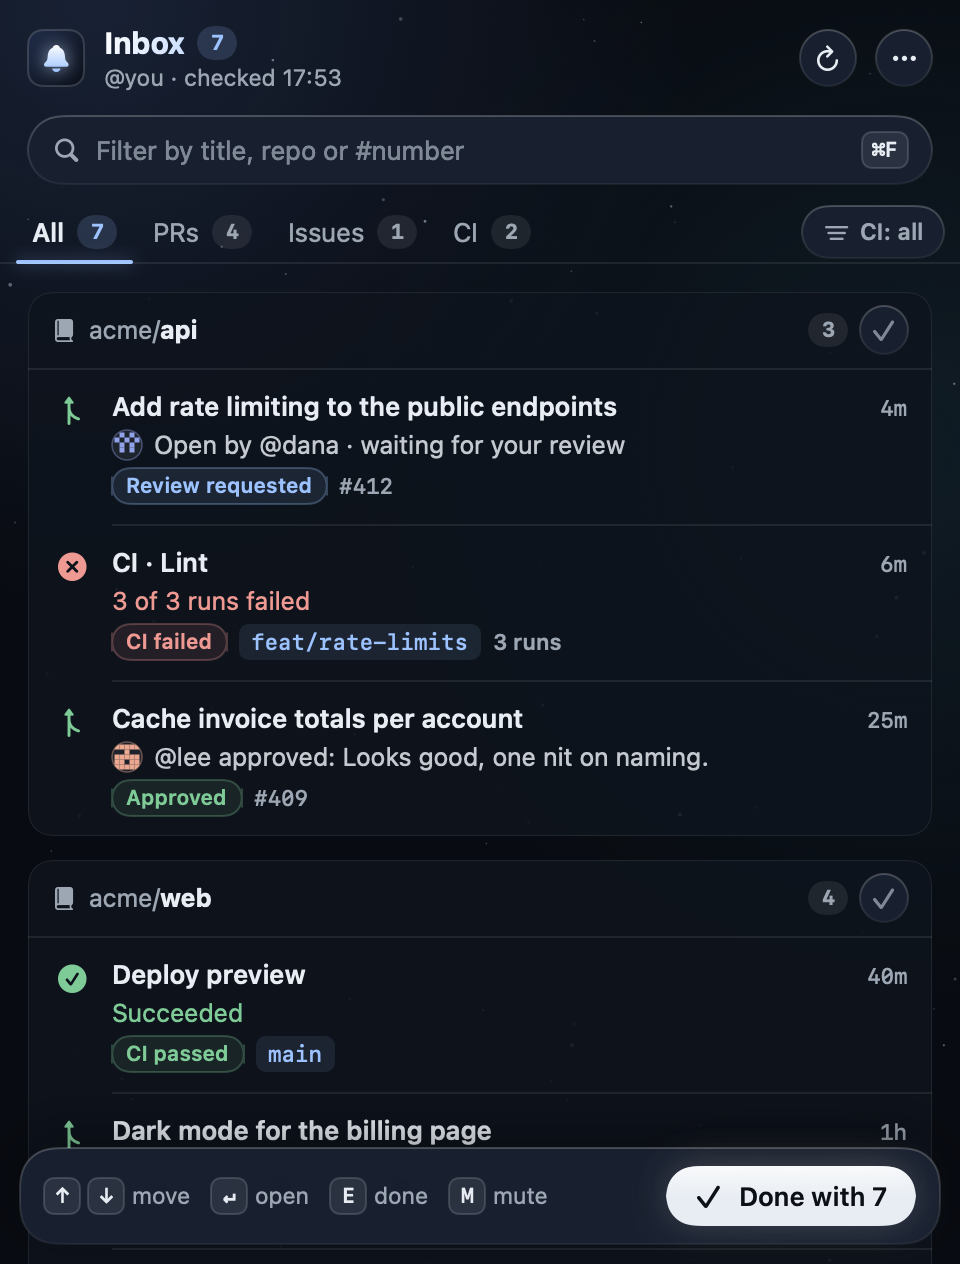
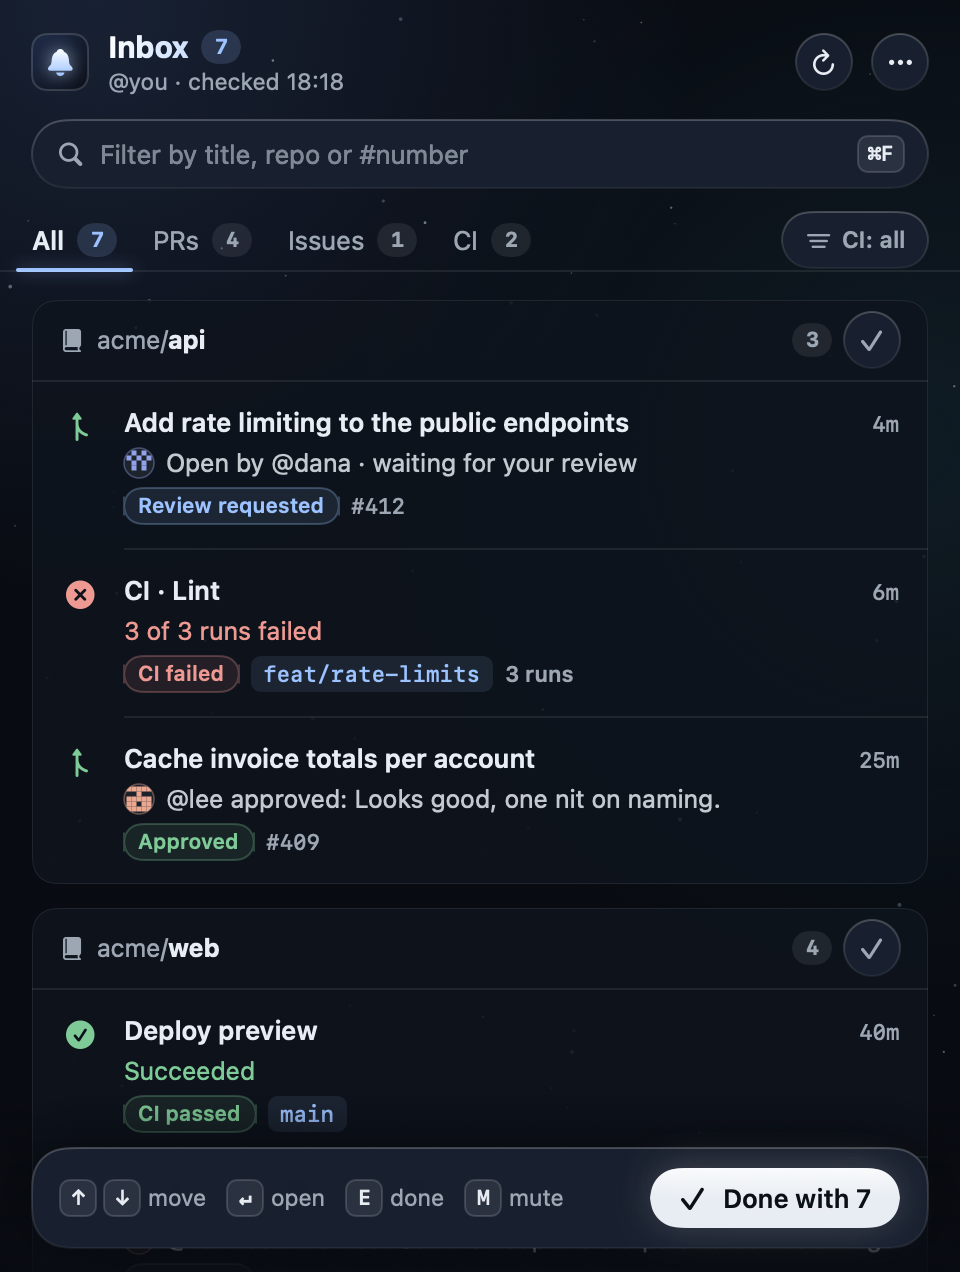
Layout pass: one 16 pt edge, roomier rows, 28 pt targets, finite pulses, Animated sky setting

diff --git a/Belfry/Sources/MenuContentView.swift b/Belfry/Sources/MenuContentView.swift
@@ -34,7 +34,13 @@ struct MenuContentView: View {
                     content
                 }
             }
-            if inList { footer.padding(10) }
+            if inList {
+                // Content fades into the sky as it slides under the floating footer.
+                LinearGradient(colors: [Theme.canvas.opacity(0), Theme.canvas.opacity(0.85)], startPoint: .top, endPoint: .bottom)
+                    .frame(height: 86)
+                    .allowsHitTesting(false)
+                footer.padding(.horizontal, Spacing.gutter).padding(.bottom, 12)
+            }
         }
         .frame(width: panelWidth)
         .background(SpaceBackground())
@@ -101,7 +107,8 @@ struct MenuContentView: View {
             moreMenu
         }
         .padding(.horizontal, Spacing.gutter)
-        .padding(.vertical, Spacing.bar)
+        .padding(.top, 14)
+        .padding(.bottom, 12)
     }
 
     private var statusLine: String {
@@ -152,12 +159,12 @@ struct MenuContentView: View {
         VStack(alignment: .leading, spacing: 0) {
             searchField
                 .padding(.horizontal, Spacing.gutter)
-                .padding(.bottom, 8)
+                .padding(.bottom, 10)
             underlineNav
             if store.selectedTab == .pullRequests {
                 prFilters
                     .padding(.horizontal, Spacing.gutter)
-                    .padding(.top, 10)
+                    .padding(.top, 12)
                     .transition(.opacity.combined(with: .offset(y: -6)))
             }
         }
@@ -233,7 +240,8 @@ struct MenuContentView: View {
             Spacer(minLength: 0)
             ciFilterMenu
         }
-        .padding(.horizontal, Spacing.gutter - 6)
+        .padding(.leading, Spacing.gutter - 8)
+        .padding(.trailing, Spacing.gutter)
         .overlay(alignment: .bottom) { Rectangle().fill(Theme.hairline).frame(height: 1) }
     }
 
@@ -261,8 +269,8 @@ struct MenuContentView: View {
                                 .contentTransition(.numericText(value: Double(n)))
                         }
                     }
-                    .padding(.horizontal, 10)
-                    .frame(height: 26)
+                    .padding(.horizontal, 11)
+                    .frame(height: 28)
                     .background {
                         if selected {
                             Capsule().fill(Theme.accent.opacity(0.14))
@@ -276,7 +284,8 @@ struct MenuContentView: View {
                 }
                 .buttonStyle(.plain)
                 .fixedSize()
-                .help(sub == .closed ? "Merged or closed" : "")
+                .help(sub == .closed ? "Merged or closed"
+                      : sub == .review ? "Every open pull request waiting on your review, from GitHub search. It can include PRs with no unread notification." : "")
                 .accessibilityAddTraits(selected ? .isSelected : [])
             }
             Spacer(minLength: 0)
@@ -298,8 +307,8 @@ struct MenuContentView: View {
             }
             .font(.system(size: 11.5, weight: .semibold))
             .foregroundStyle(store.ciFilter == .all ? Theme.secondaryText : Theme.accent)
-            .padding(.horizontal, 10)
-            .frame(height: 26)
+            .padding(.horizontal, 11)
+            .frame(height: 28)
             .liquidGlass(Capsule(), tint: store.ciFilter == .all ? nil : Theme.accent.opacity(0.3), interactive: true)
             .contentShape(Capsule())
         }
@@ -330,7 +339,8 @@ struct MenuContentView: View {
                             }
                         }
                         .card()
-                        .padding(Spacing.gutter)
+                        .padding(.horizontal, Spacing.gutter)
+                        .padding(.top, 14)
                         .padding(.bottom, footerClearance)
                     }
                 }
@@ -344,7 +354,8 @@ struct MenuContentView: View {
                                 .transition(.opacity.combined(with: .scale(scale: 0.97)))
                         }
                     }
-                    .padding(Spacing.gutter)
+                    .padding(.horizontal, Spacing.gutter)
+                    .padding(.top, 14)
                     .padding(.bottom, footerClearance)
                     .animation(spring, value: store.flatVisibleItems.map(\.id))
                 }
@@ -463,8 +474,8 @@ struct FooterBar: View {
                 .transition(.opacity)
             }
         }
-        .padding(.horizontal, 12)
-        .frame(height: 48)
+        .padding(.horizontal, 14)
+        .frame(height: 50)
         .liquidGlass(RoundedRectangle(cornerRadius: 18), tint: pending == nil ? nil : Theme.open.opacity(0.25))
         .shadow(color: .black.opacity(0.35), radius: 14, y: 6)
     }
@@ -547,7 +558,7 @@ struct ExitEffect: ViewModifier, Animatable {
             }
             .overlay(alignment: .trailing) {
                 if phase > 0 {
-                    ActionMark(kind: kind, progress: mark).padding(.trailing, 18).opacity(1 - leave)
+                    ActionMark(kind: kind, progress: mark).padding(.trailing, Spacing.cardInset + 6).opacity(1 - leave)
                 }
             }
             .offset(x: 80 * leave * leave)
@@ -677,14 +688,14 @@ struct StateIcon: View {
         Image(systemName: style.symbol)
             .font(.system(size: 14, weight: .semibold))
             .foregroundStyle(style.color)
-            .symbolEffect(.pulse, options: .repeating, isActive: style.pulse && !reduceMotion && !snapshotMode)
+            .symbolEffect(.pulse, options: .repeat(3), isActive: style.pulse && !reduceMotion && !snapshotMode)
             .frame(width: 20, height: 20)
             .accessibilityHidden(true)
     }
 }
 
 struct RowDivider: View {
-    var body: some View { Rectangle().fill(Theme.hairline).frame(height: 1).padding(.leading, 42) }
+    var body: some View { Rectangle().fill(Theme.hairline).frame(height: 1).padding(.leading, Spacing.cardInset + 32) }
 }
 
 /// One repository: a quiet card with a header and its rows.
@@ -708,12 +719,12 @@ struct RepoBox: View {
                 Button { store.requestExit(.done, items, label: "Marked \(repo) done", animated: !reduceMotion) } label: {
                     Image(systemName: "checkmark")
                 }
-                .buttonStyle(IconButtonStyle(size: 24, tint: hovering ? Theme.text : Theme.tertiaryText))
+                .buttonStyle(IconButtonStyle(size: 28, tint: hovering ? Theme.text : Theme.secondaryText))
                 .help("Mark everything in \(repo) done")
                 .accessibilityLabel("Mark everything in \(repo) done")
             }
-            .padding(.horizontal, 12)
-            .frame(height: 38)
+            .padding(.horizontal, Spacing.cardInset)
+            .frame(height: 40)
             Rectangle().fill(Theme.hairline).frame(height: 1)
             ForEach(items) { item in
                 ItemRow(item: item, selected: store.selection == item.id,
@@ -776,9 +787,9 @@ struct ItemRow: View {
 
     var body: some View {
         let style = RowStyle.of(item, detail: detail)
-        HStack(alignment: .top, spacing: 10) {
+        HStack(alignment: .top, spacing: 12) {
             StateIcon(style: style)
-            VStack(alignment: .leading, spacing: 4) {
+            VStack(alignment: .leading, spacing: 5) {
                 Text(title)
                     .font(.system(size: 13, weight: .semibold))
                     .foregroundStyle(Theme.text)
@@ -814,13 +825,13 @@ struct ItemRow: View {
             .frame(maxWidth: .infinity, alignment: .leading)
         }
         .overlay(alignment: .topTrailing) { if !isExiting { trailing } }
-        .padding(.horizontal, 12)
-        .padding(.vertical, 10)
+        .padding(.horizontal, Spacing.cardInset)
+        .padding(.vertical, 12)
         .background(
             ZStack(alignment: .leading) {
                 if selected {
                     Theme.accent.opacity(0.09)
-                    Capsule().fill(Theme.accent).frame(width: 2.5).padding(.vertical, 8).glow(Theme.accent, radius: 3)
+                    Capsule().fill(Theme.accent).frame(width: 2.5).padding(.vertical, 10).glow(Theme.accent, radius: 3)
                         .transition(.scale(scale: 0.2, anchor: .center).combined(with: .opacity))
                 } else if hovering {
                     Color.white.opacity(0.04)
@@ -878,13 +889,13 @@ struct ItemRow: View {
                 Button { store.requestExit(.done, [item], animated: !reduceMotion) } label: {
                     Image(systemName: "checkmark")
                 }
-                .buttonStyle(IconButtonStyle(size: 26, tint: Theme.open))
+                .buttonStyle(IconButtonStyle(size: 28, tint: Theme.open))
                 .help("Mark done (E)")
                 .accessibilityLabel("Mark done")
                 Button { store.requestExit(.mute, [item], animated: !reduceMotion) } label: {
                     Image(systemName: "bell.slash")
                 }
-                .buttonStyle(IconButtonStyle(size: 26))
+                .buttonStyle(IconButtonStyle(size: 28))
                 .help("Mute this thread (M)")
                 .accessibilityLabel("Mute")
             }
@@ -922,10 +933,10 @@ struct ReviewRow: View {
 
     var body: some View {
         let requester = store.requesters[pr.id]
-        HStack(alignment: .top, spacing: 10) {
+        HStack(alignment: .top, spacing: 12) {
             StateIcon(style: RowStyle(symbol: "arrow.triangle.pull", color: Theme.open, reason: "Review requested",
                                       reasonColor: Theme.accent, pulse: true))
-            VStack(alignment: .leading, spacing: 4) {
+            VStack(alignment: .leading, spacing: 5) {
                 Text(pr.title)
                     .font(.system(size: 13, weight: .semibold))
                     .foregroundStyle(Theme.text)
@@ -956,13 +967,13 @@ struct ReviewRow: View {
                 .foregroundStyle(Theme.secondaryText)
                 .padding(.top, 2)
         }
-        .padding(.horizontal, 12)
-        .padding(.vertical, 10)
+        .padding(.horizontal, Spacing.cardInset)
+        .padding(.vertical, 12)
         .background(
             ZStack(alignment: .leading) {
                 if selected {
                     Theme.accent.opacity(0.09)
-                    Capsule().fill(Theme.accent).frame(width: 2.5).padding(.vertical, 8)
+                    Capsule().fill(Theme.accent).frame(width: 2.5).padding(.vertical, 10)
                 } else if hovering {
                     Color.white.opacity(0.04)
                 }
@@ -1102,12 +1113,14 @@ struct ShimmerRows: View {
                         ShimmerBar(width: 120, height: 9)
                     }
                 }
-                .padding(12)
+                .padding(.horizontal, Spacing.cardInset)
+                .padding(.vertical, 12)
                 if index < 2 { RowDivider() }
             }
         }
         .card()
-        .padding(Spacing.gutter)
+        .padding(.horizontal, Spacing.gutter)
+        .padding(.top, 14)
         .padding(.bottom, footerClearance)
         .accessibilityElement()
         .accessibilityLabel("Checking GitHub")

diff --git a/Belfry/Sources/Theme.swift b/Belfry/Sources/Theme.swift
@@ -31,8 +31,12 @@ enum Theme {
                                           startPoint: .topLeading, endPoint: .bottomTrailing)
 }
 
+/// One rhythm for the panel. Everything outside a card sits on `gutter`; everything inside one on `cardInset`.
 enum Spacing {
-    static let gutter: CGFloat = 14
+    /// Outer margin: header, search, tabs, cards and the floating footer all start and end here.
+    static let gutter: CGFloat = 16
+    /// Inside a card: rows and the card header.
+    static let cardInset: CGFloat = 14
     static let bar: CGFloat = 12
     static let section: CGFloat = 14
     static let inner: CGFloat = 10
@@ -117,6 +121,7 @@ extension View {
 struct SpaceBackground: View {
     @Environment(\.accessibilityReduceMotion) private var reduceMotion
     @Environment(\.frozenTime) private var frozenTime
+    @AppStorage("animatedSky") private var animatedSky = true
 
     var body: some View {
         ZStack {
@@ -127,7 +132,7 @@ struct SpaceBackground: View {
                            startRadius: 0, endRadius: 280)
             if let frozenTime {
                 StarField(time: frozenTime)
-            } else if reduceMotion {
+            } else if reduceMotion || !animatedSky {
                 StarField(time: 0)
             } else {
                 TimelineView(.animation(minimumInterval: 1 / 20)) { context in

diff --git a/Belfry/Sources/SettingsView.swift b/Belfry/Sources/SettingsView.swift
@@ -6,6 +6,7 @@ struct SettingsView: View {
     @State private var launchAtLogin = SMAppService.mainApp.status == .enabled
     @State private var loginItemError: String?
     @State private var confirmDisconnect = false
+    @AppStorage("animatedSky") private var animatedSky = true
 
     private let intervals: [Double] = [60, 120, 300, 600, 900]
 
@@ -60,6 +61,7 @@ struct SettingsView: View {
             }
 
             Section("General") {
+                Toggle("Animated sky", isOn: $animatedSky)
                 Toggle("Open Belfry at login", isOn: $launchAtLogin)
                     .onChange(of: launchAtLogin) { _, enabled in setLaunchAtLogin(enabled) }
                 if let loginItemError {
